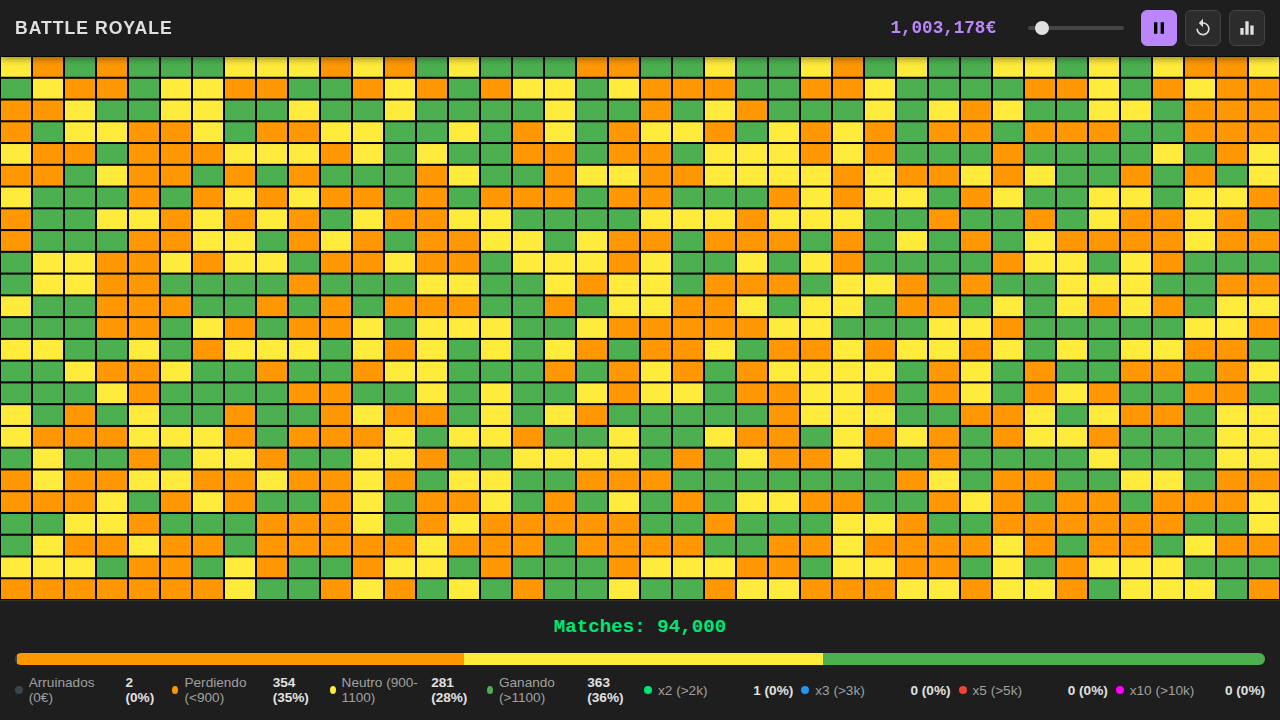
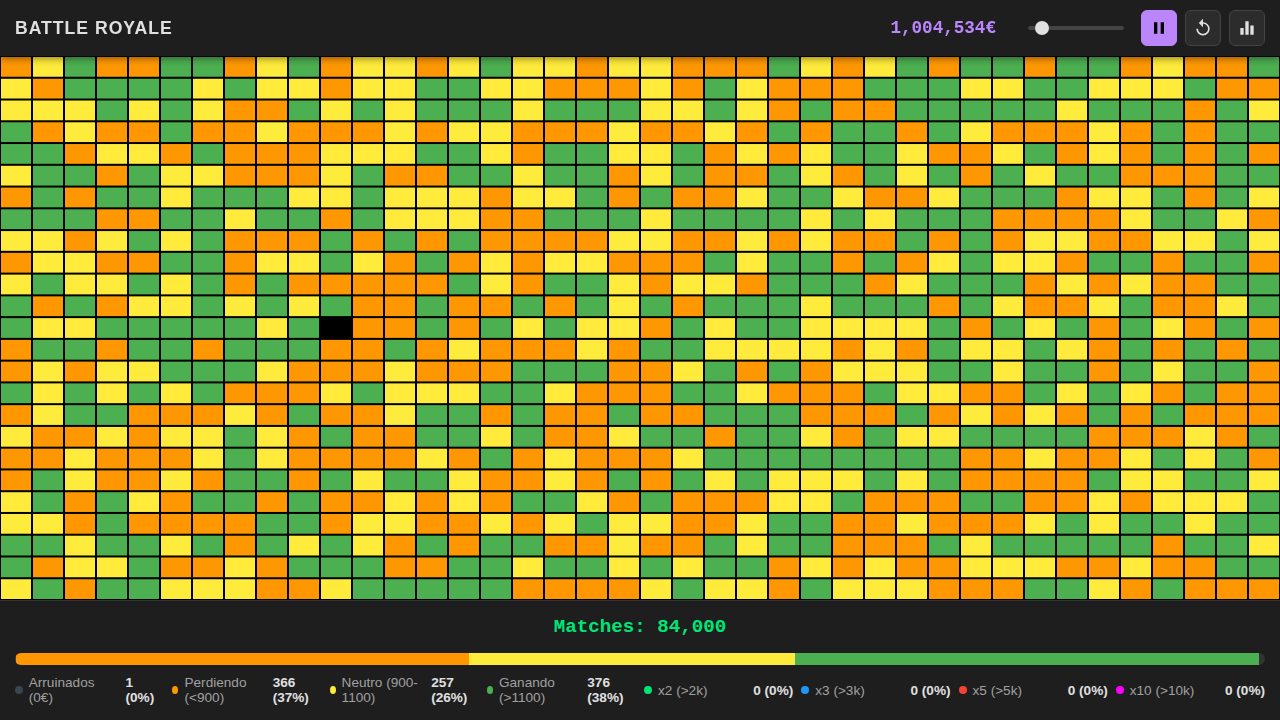
Force BLACK color immediately when player is ruined to bypass interpolation

diff --git a/index.html b/index.html
@@ -596,7 +596,13 @@
             const x = col * cellWidth;
             const y = row * cellHeight;
 
-            ctx.fillStyle = getColor(p.visualBank);
+            // Force black immediately if ruined, otherwise use visualBank
+            if (p.bank <= 0) {
+                ctx.fillStyle = BANK_COLORS.BLACK;
+            } else {
+                ctx.fillStyle = getColor(p.visualBank);
+            }
+
             ctx.fillRect(x + padding, y + padding, Math.max(0, cellWidth - padding * 2), Math.max(0, cellHeight - padding * 2));
         }
     }
